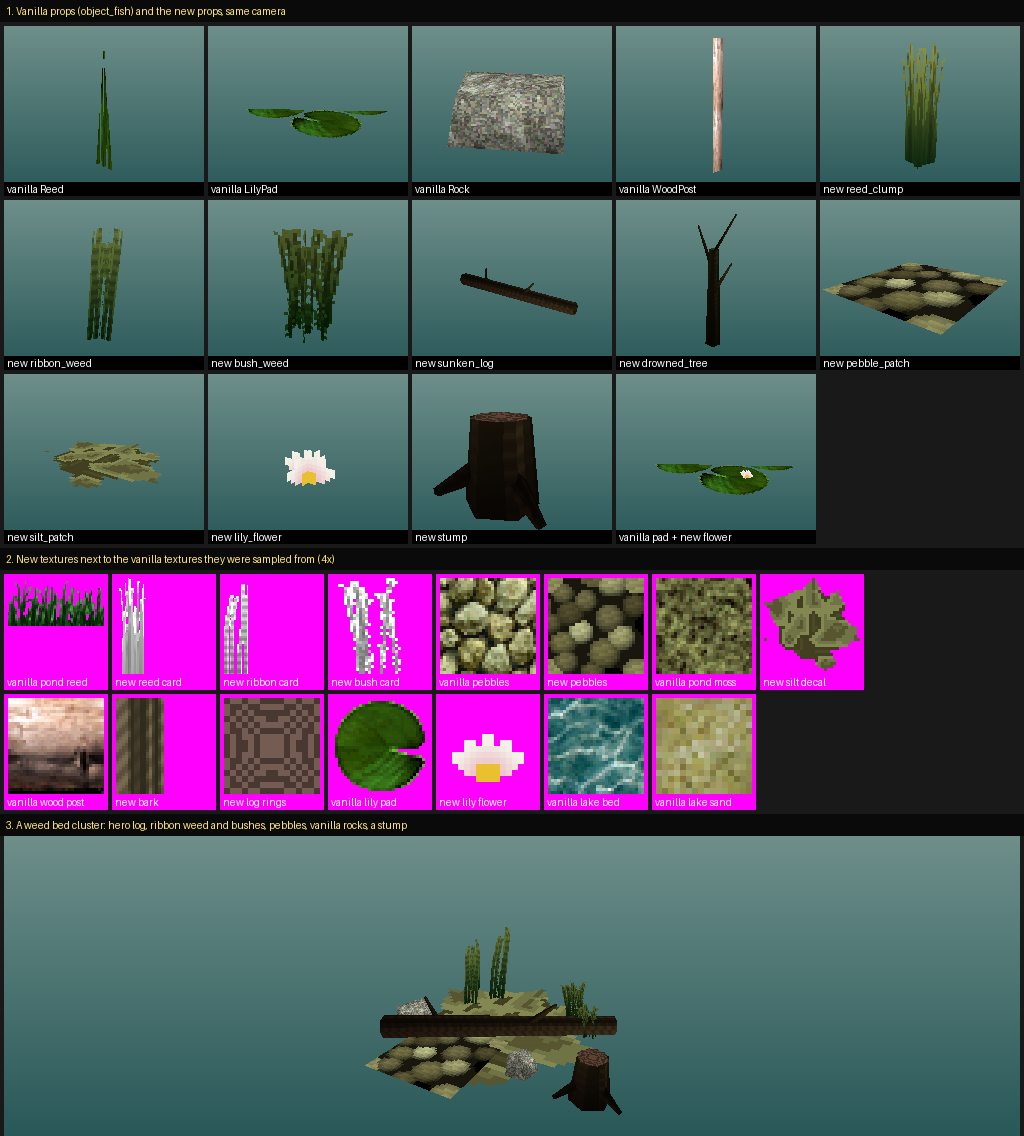
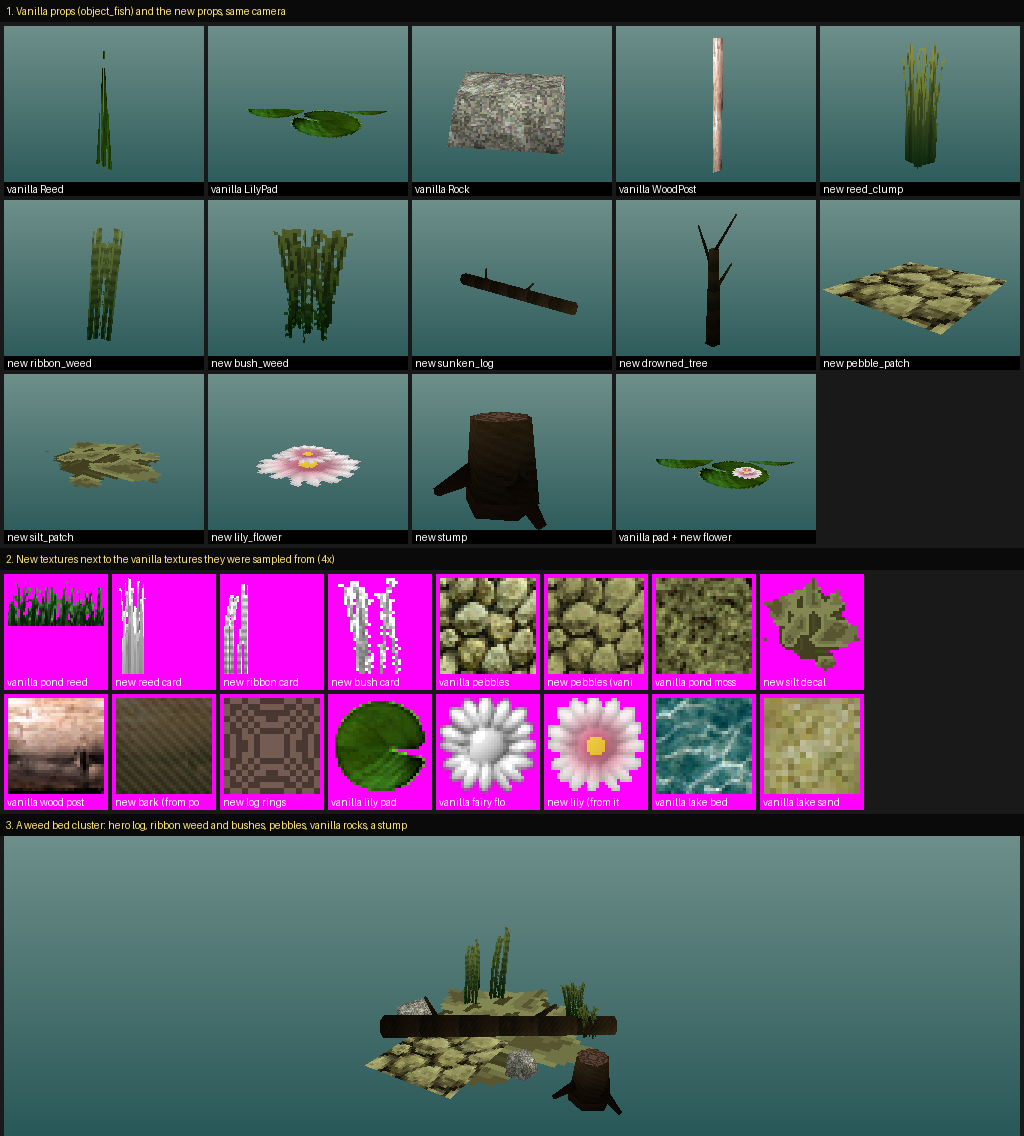
Habitat textures edited from vanilla ones (made at build time, not committed): river stones from the pond's pebbles, a water lily from the Great Fairy flower, waterlogged bark from the pond's wood post
OoT's textures are edited photos; editing them keeps that look where drawing shapes in code didn't. Also: species
daily rhythm data (activity per time of day, depth band, rise to feed, light shyness, per-fish clock) and its use in
the AI's depth (opt 5); deep fish get time for the climb when they come to the bobber.

Claude-Session: https://claude.ai/code/session_01Ns8wfSgc7GHj6hbL7fMboW

diff --git a/fishmod/tools/gen_habitat.py b/fishmod/tools/gen_habitat.py
@@ -161,44 +161,6 @@ def tex_bush():
     return out
 
 
-def tex_pebbles():
-    """Rounded river stones packed together (the inflow bed), colours from the pond's pebbles."""
-    rnd = random.Random(41)
-    pal = [hexc(c) for c in PALETTES["pond_pebbles"]] + [hexc(c) for c in PALETTES["lake_cobble"][:4]]
-    w = h = 32
-    img = Image.new("RGB", (w, h), hexc("#19170d"))
-    px = img.load()
-    stones = []
-    # packed like a river bed: stones of a few sizes, touching but not overlapping (tiling across the edges)
-    for _ in range(600):
-        x, y, r = rnd.uniform(0, w), rnd.uniform(0, h), rnd.uniform(2.6, 5.0)
-        ok = True
-        for sx, sy, sr, _, _ in stones:
-            dx = min(abs(x - sx), w - abs(x - sx))
-            dy = min(abs(y - sy), h - abs(y - sy))
-            if math.hypot(dx, dy) < (r + sr) * 0.92:
-                ok = False
-                break
-        if ok:
-            stones.append((x, y, r, rnd.uniform(0.75, 1.0), rnd.choice([pal[0], pal[3], pal[4], pal[7], pal[9], pal[10], pal[11]])))
-    for y in range(h):
-        for x in range(w):
-            best = None
-            for sx, sy, r, sq, col in stones:
-                # tile seamlessly: nearest copy
-                dx = min(abs(x - sx), w - abs(x - sx))
-                dy = min(abs(y - sy), h - abs(y - sy))
-                d = math.hypot(dx, dy / sq) / (r * 1.32)  # grown so neighbours meet
-                if d < 1.0 and (best is None or d < best[0]):
-                    best = (d, col, (x - sx) / r, (y - sy) / r)
-            if best:
-                d, col, ux, uy = best
-                light = min(1.08, 1.02 - 0.55 * d ** 3 - 0.22 * uy - 0.12 * ux)  # lit from the top left, a dark rim
-                grain = 0.9 + 0.2 * ((x * 7 + y * 13) * 2654435761 % 97) / 97.0  # a little grit
-                px[x, y] = tuple(max(0, min(255, int(c * light * grain))) for c in col)
-    return img
-
-
 def tex_silt():
     """A soft patch of silt with a ragged edge (a decal on the lake bed): alpha cut-out."""
     rnd = random.Random(51)
@@ -255,39 +217,97 @@ def tex_rings():
     return img
 
 
-def tex_lily_flower():
-    """A water lily flower seen from the side: a cup of broad pink-white petals and a yellow centre (alpha cut-out),
-    chunky like OoT's flowers."""
-    w = h = 16
-    img = Image.new("RGBA", (w, h), (0, 0, 0, 0))
-    pink, light, yellow = hexc("#e890a8"), hexc("#f4f0e8"), hexc("#e8c030")
-    # petals: five broad pointed lobes fanning up from the base
-    for p in range(5):
-        ang = math.pi * (0.18 + 0.64 * p / 4)
-        for y in range(h):
-            for x in range(w):
-                dx, dy = x + 0.5 - 8, 13.5 - (y + 0.5)
-                r = math.hypot(dx, dy)
-                a = math.atan2(dy, dx)
-                # a lobe: wide near its middle, pointed at the tip
-                da = abs(a - ang)
-                if r < 7.5 and da < 0.42 * (1 - (r / 7.5) ** 2) + 0.05 and dy > -1:
-                    img.putpixel((x, y), lerp(pink, light, min(1.0, r / 7.5 + 0.2)) + (255,))
-    for x in range(6, 10):
-        for y in range(11, 14):
-            img.putpixel((x, y), yellow + (255,))
-    return img
+# ---------------------------------------------------------------------------------------------------------------
+# Textures edited from vanilla ones (OoT's textures are edited photos; editing them keeps that look). Made from the
+# extracted assets of the user's own ROM at build time, never committed: written to fishmod/art/habitat_rom/.
+
+VANILLA = os.path.join(ROOT, "extracted", "ntsc-1.2", "assets")
+ART_ROM = os.path.join(ROOT, "fishmod", "art", "habitat_rom")
+
+
+def vanilla(path):
+    return Image.open(os.path.join(VANILLA, path)).convert("RGBA")
+
+
+def luma(c):
+    return (c[0] * 299 + c[1] * 587 + c[2] * 114) / 1000.0
+
+
+def ramp(palette, t):
+    """A colour from a palette sorted dark to light, t in 0-1."""
+    cols = sorted((hexc(c) for c in palette), key=luma)
+    t = max(0.0, min(1.0, t)) * (len(cols) - 1)
+    i = min(int(t), len(cols) - 2)
+    return lerp(cols[i], cols[i + 1], t - i)
+
+
+def rom_pebbles():
+    """The Fishing Pond's river stones, recoloured toward Lake Hylia's cobble and sand: keeps the photo detail."""
+    src = vanilla("scenes/misc/turibori/turibori_scene_0000FCE0_Tex.rgba16.png")
+    out = Image.new("RGB", src.size)
+    pal = PALETTES["lake_cobble"] + PALETTES["lake_sand"][:4]
+    lo = min(luma(src.getpixel((x, y))) for y in range(src.height) for x in range(src.width))
+    hi = max(luma(src.getpixel((x, y))) for y in range(src.height) for x in range(src.width))
+    for y in range(src.height):
+        for x in range(src.width):
+            r, g, b, a = src.getpixel((x, y))
+            t = (luma((r, g, b)) - lo) / max(hi - lo, 1)
+            # keep a little of the original colour so stones differ from each other
+            out.putpixel((x, y), lerp(ramp(pal, t), (r, g, b), 0.3))
+    return out
+
+
+def rom_lily_flower():
+    """A water lily seen from above, from the Great Fairy fountain's flower (a white photo-made flower): petals pink
+    at the base fading to white, a yellow centre."""
+    src = vanilla("objects/object_dy_obj/gGreatFairyFlowerTex.ia16.png")
+    w, h = src.size
+    out = Image.new("RGBA", (w, h), (0, 0, 0, 0))
+    pink, white, yellow, gold = hexc("#d8708c"), hexc("#f8f0f0"), hexc("#f0d040"), hexc("#c89020")
+    cx, cy = (w - 1) / 2.0, (h - 1) / 2.0
+    for y in range(h):
+        for x in range(w):
+            r, g, b, a = src.getpixel((x, y))
+            if a < 128:
+                continue
+            v = luma((r, g, b)) / 255.0
+            d = math.hypot(x - cx, y - cy) / (w / 2.0)
+            if d < 0.22:
+                col = lerp(gold, yellow, v)
+            else:
+                col = lerp(pink, white, min(1.0, (d - 0.22) / 0.6))
+                col = tuple(int(c * (0.55 + 0.45 * v)) for c in col)
+            out.putpixel((x, y), col + (255,))
+    return out
+
+
+def rom_bark():
+    """Waterlogged wood: the Fishing Pond's wood post, darkened and tinted with algae, its grain kept."""
+    src = vanilla("objects/object_fish/gFishingWoodPostTex.rgba16.png")
+    moss = [hexc(c) for c in PALETTES["pond_moss"]]
+    out = Image.new("RGB", src.size)
+    for y in range(src.height):
+        for x in range(src.width):
+            r, g, b, a = src.getpixel((x, y))
+            v = luma((r, g, b)) / 255.0
+            dark = (int(r * 0.35), int(g * 0.32), int(b * 0.28))
+            out.putpixel((x, y), lerp(dark, moss[(x * 3 + y) % 4], 0.25 + 0.2 * (1 - v)))
+    return out
+
+
+ROM_TEXTURES = {
+    "bark": (rom_bark, "ci4"),
+    "pebbles": (rom_pebbles, "ci4"),
+    "lily_flower": (rom_lily_flower, "ci4"),
+}
 
 
 TEXTURES = {
     "reed_card": (tex_reed, "ia8"),
     "ribbon_card": (tex_ribbon, "ia8"),
     "bush_card": (tex_bush, "ia8"),
-    "pebbles": (tex_pebbles, "ci4"),
     "silt": (tex_silt, "ci4"),
-    "bark": (tex_bark, "ci4"),
     "log_rings": (tex_rings, "ci4"),
-    "lily_flower": (tex_lily_flower, "ci4"),
 }
 
 
@@ -432,16 +452,16 @@ def mesh_decal(name, texture, size, col):
 
 
 def mesh_lily_flower():
+    """An open water lily resting on its pad: a flat quad a little above the water, and a smaller one tilted up
+    for the inner petals so it has some depth from the side."""
     m = Mesh("lily_flower", "lily_flower")
     white = (255, 255, 255)
-    for p in range(2):
-        ang = math.pi * p / 2
-        dx, dz = math.cos(ang) * 6, math.sin(ang) * 6
-        a = m.vert((-dx, 0, -dz), (0, 1), white)
-        b = m.vert((dx, 0, dz), (1, 1), white)
-        c = m.vert((dx, 10, dz), (1, 0), white)
-        d = m.vert((-dx, 10, -dz), (0, 0), white)
-        m.quad(a, b, c, d)
+    for size, y in ((9, 1.0), (5, 3.0)):
+        a = m.vert((-size, y, -size), (0, 0), white)
+        b = m.vert((size, y, -size), (1, 0), white)
+        c = m.vert((size, y, size), (1, 1), white)
+        d = m.vert((-size, y, size), (0, 1), white)
+        m.quad(a, d, c, b)
     return m
 
 
@@ -462,6 +482,12 @@ MESHES = [
 def main():
     for name, (fn, fmt) in TEXTURES.items():
         save(fn(), name)
+    if os.path.isdir(VANILLA):
+        os.makedirs(ART_ROM, exist_ok=True)
+        for name, (fn, fmt) in ROM_TEXTURES.items():
+            fn().save(os.path.join(ART_ROM, name + ".png"))
+    else:
+        print("note: no extracted assets, so the textures edited from vanilla ones aren't made")
     meshes = [f().write() for f in MESHES]
     for m in meshes:
         print(f"{m.name}: {len(m.v)} verts, {len(m.f)} tris, texture {m.texture}")

diff --git a/fishmod/tools/style_sheet.py b/fishmod/tools/style_sheet.py
@@ -26,6 +26,7 @@ ROOT = os.path.normpath(os.path.join(os.path.dirname(__file__), "..", ".."))
 OBJ_FISH = os.path.join(ROOT, "extracted", "ntsc-1.2", "assets", "objects", "object_fish")
 SCENES = os.path.join(ROOT, "extracted", "ntsc-1.2", "assets", "scenes")
 ART = os.path.join(ROOT, "fishmod", "art", "habitat")
+ART_ROM = os.path.join(ROOT, "fishmod", "art", "habitat_rom")  # edited from vanilla textures (not committed)
 MESH = os.path.join(ROOT, "fishmod", "assets", "habitat")
 
 BG_TOP = np.array([0x6e, 0x8f, 0x8a], float)  # the lake bed's teal (Lake Hylia's bed texture), lighter at the top
@@ -81,9 +82,12 @@ def load_obj(name):
         elif parts[0] == "f":
             idx = [tuple(int(i) for i in p.split("/")) for p in parts[1:]]
             tris.append([(vs[i - 1][:3], vts[t - 1], vs[i - 1][3:6]) for i, t in idx])
-    img = Image.open(os.path.join(ART, tex_name + ".png"))
+    path = os.path.join(ART_ROM, tex_name + ".png")
+    if not os.path.exists(path):
+        path = os.path.join(ART, tex_name + ".png")
+    img = Image.open(path)
     mode = "ia" if img.mode in ("LA", "L") else "rgba"
-    return Model(tris, load_png(os.path.join(ART, tex_name + ".png")), mode, name)
+    return Model(tris, load_png(path), mode, name)
 
 
 def load_vanilla(model, tex, tex_w, tex_h):
@@ -253,14 +257,16 @@ def main():
         (os.path.join(ART, "ribbon_card.png"), "new ribbon card"),
         (os.path.join(ART, "bush_card.png"), "new bush card"),
         (os.path.join(v, "turibori_scene_0000FCE0_Tex.rgba16.png"), "vanilla pebbles"),
-        (os.path.join(ART, "pebbles.png"), "new pebbles"),
+        (os.path.join(ART_ROM, "pebbles.png"), "new pebbles (vanilla)"),
         (os.path.join(v, "turibori_scene_0000ECE0_Tex.rgba16.png"), "vanilla pond moss"),
         (os.path.join(ART, "silt.png"), "new silt decal"),
         (os.path.join(OBJ_FISH, "gFishingWoodPostTex.rgba16.png"), "vanilla wood post"),
-        (os.path.join(ART, "bark.png"), "new bark"),
+        (os.path.join(ART_ROM, "bark.png"), "new bark (from post)"),
         (os.path.join(ART, "log_rings.png"), "new log rings"),
         (os.path.join(OBJ_FISH, "gFishingLilyPadTex.rgba16.png"), "vanilla lily pad"),
-        (os.path.join(ART, "lily_flower.png"), "new lily flower"),
+        (os.path.join(ROOT, "extracted", "ntsc-1.2", "assets", "objects", "object_dy_obj",
+                      "gGreatFairyFlowerTex.ia16.png"), "vanilla fairy flower"),
+        (os.path.join(ART_ROM, "lily_flower.png"), "new lily (from it)"),
         (os.path.join(s, "spot06_scene_000170B8_Tex.rgba16.png"), "vanilla lake bed"),
         (os.path.join(s, "spot06_scene_0000C2B8_Tex.rgba16.png"), "vanilla lake sand"),
     ]

diff --git a/fishmod/tools/gen_species.py b/fishmod/tools/gen_species.py
@@ -56,7 +56,8 @@ def gen_header(data):
     out.append("const FishmodSpecies gFishmodSpecies[FISHMOD_SPECIES_MAX] = {")
     for sp in species:
         b = sp["behavior"]
-        times = sum(1 << TIMES.index(t) for t in sp["activeTimes"])
+        times = sum(1 << i for i, t in enumerate(TIMES) if sp["activity"][t] >= 2)
+        activity = sum(sp["activity"][t] << (2 * i) for i, t in enumerate(TIMES))
         bait = ", ".join(f"{int(round(sp['bait'].get(k, 0.0) * 100))}" for k in BAITS)
         out.append(f"    /* FISHMOD_SPECIES_{sp['id']} */ {{")
         out.append(f'        "{sp["name"]}",')
@@ -86,6 +87,10 @@ def gen_header(data):
         if look.get("whiskers"):
             flags.append("FISHMOD_LOOK_WHISKERS")
         out.append(f"        {' | '.join(flags) if flags else '0'},")
+        band = sp["depthBand"]
+        out.append(f"        0x{activity:02X}, {int(round(band[0] * 255))}, {int(round(band[1] * 255))}, "
+                   f"{int(round(sp['rise'] * 255))}, {int(round(sp['lightShy'] * 255))}, {sp.get('chronotypeHours', 0)},"
+                   " /* activity (2 bits per time of day), depth band, rise, light shyness, chronotype */")
         out.append("    },")
     out.append("};")
     out.append("")
@@ -164,7 +169,7 @@ def gen_species_page(sp, data):
     lines.append(f"| Rarity | {RARITY_NAMES[sp['rarity']]} ({sp['rarity']}/5) |")
     lines.append(f"| Sell price | {sp['price']} rupees (more for bigger fish) |")
     lines.append(f"| Depth | {sp['depth']} |")
-    lines.append(f"| Most active | {', '.join(sp['activeTimes'])} |")
+    lines.append(f"| Most active | {', '.join(t for t in TIMES if sp['activity'][t] >= 2)} |")
     where = ", ".join(
         f"{data['scenes'][s]['name']}" + ("" if data["scenes"][s]["status"] == "in-game" else " (planned)")
         for s in sp["scenes"]

diff --git a/fishmod/wiki/species/jabu_fry.md b/fishmod/wiki/species/jabu_fry.md
@@ -15,7 +15,7 @@
 | Rarity | Legendary (5/5) |
 | Sell price | 250 rupees (more for bigger fish) |
 | Depth | surface |
-| Most active | day, dusk, night, dawn |
+| Most active | dawn, day, dusk, night |
 | Found in | Zora's Fountain (planned) |
 
 ## Behavior

diff --git a/fishmod/wiki/species/reekfish.md b/fishmod/wiki/species/reekfish.md
@@ -15,7 +15,7 @@
 | Rarity | Legendary (5/5) |
 | Sell price | 200 rupees (more for bigger fish) |
 | Depth | mid |
-| Most active | day, dusk, night, dawn |
+| Most active | dawn, day, dusk, night |
 | Found in | Zora's Domain (planned) |
 
 ## Behavior

diff --git a/fishmod/wiki/species/hylian_pike.md b/fishmod/wiki/species/hylian_pike.md
@@ -15,7 +15,7 @@
 | Rarity | Rare (3/5) |
 | Sell price | 50 rupees (more for bigger fish) |
 | Depth | mid |
-| Most active | day, dusk |
+| Most active | dawn, day, dusk |
 | Found in | Lake Hylia (planned), Zora's River (planned) |
 
 ## Behavior

diff --git a/fishmod/wiki/species/hyrule_bass.md b/fishmod/wiki/species/hyrule_bass.md
@@ -17,7 +17,7 @@
 | Rarity | Uncommon (2/5) |
 | Sell price | 20 rupees (more for bigger fish) |
 | Depth | mid |
-| Most active | dawn, dusk |
+| Most active | dawn, day, dusk |
 | Found in | Kokiri Forest, Lake Hylia (planned) |
 
 ## Behavior

diff --git a/fishmod/wiki/species/sanke_carp.md b/fishmod/wiki/species/sanke_carp.md
@@ -17,7 +17,7 @@
 | Rarity | Very rare (4/5) |
 | Sell price | 80 rupees (more for bigger fish) |
 | Depth | surface |
-| Most active | day |
+| Most active | dawn, day, dusk |
 | Found in | Kokiri Forest, Lake Hylia (planned) |
 
 ## Behavior

diff --git a/fishmod/wiki/species/greengill.md b/fishmod/wiki/species/greengill.md
@@ -17,7 +17,7 @@
 | Rarity | Common (1/5) |
 | Sell price | 5 rupees (more for bigger fish) |
 | Depth | mid |
-| Most active | day, dusk |
+| Most active | dawn, day, dusk |
 | Found in | Kokiri Forest, Lake Hylia (planned) |
 
 ## Behavior

diff --git a/fishmod/wiki/species/ordon_catfish.md b/fishmod/wiki/species/ordon_catfish.md
@@ -17,7 +17,7 @@
 | Rarity | Rare (3/5) |
 | Sell price | 40 rupees (more for bigger fish) |
 | Depth | bottom |
-| Most active | night, dusk |
+| Most active | dusk, night |
 | Found in | Kokiri Forest, Lake Hylia (planned) |
 
 ## Behavior

diff --git a/fishmod/wiki/species/hylian_loach.md b/fishmod/wiki/species/hylian_loach.md
@@ -17,7 +17,7 @@
 | Rarity | Legendary (5/5) |
 | Sell price | 150 rupees (more for bigger fish) |
 | Depth | bottom |
-| Most active | dawn |
+| Most active | dawn, night |
 | Found in | Kokiri Forest, Lake Hylia (planned) |
 
 ## Behavior

diff --git a/fishmod/wiki/species/hearty_bass.md b/fishmod/wiki/species/hearty_bass.md
@@ -15,7 +15,7 @@
 | Rarity | Very rare (4/5) |
 | Sell price | 90 rupees (more for bigger fish) |
 | Depth | mid |
-| Most active | dawn, dusk |
+| Most active | dawn, dusk, night |
 | Found in | Lake Hylia (planned) |
 
 ## Behavior
